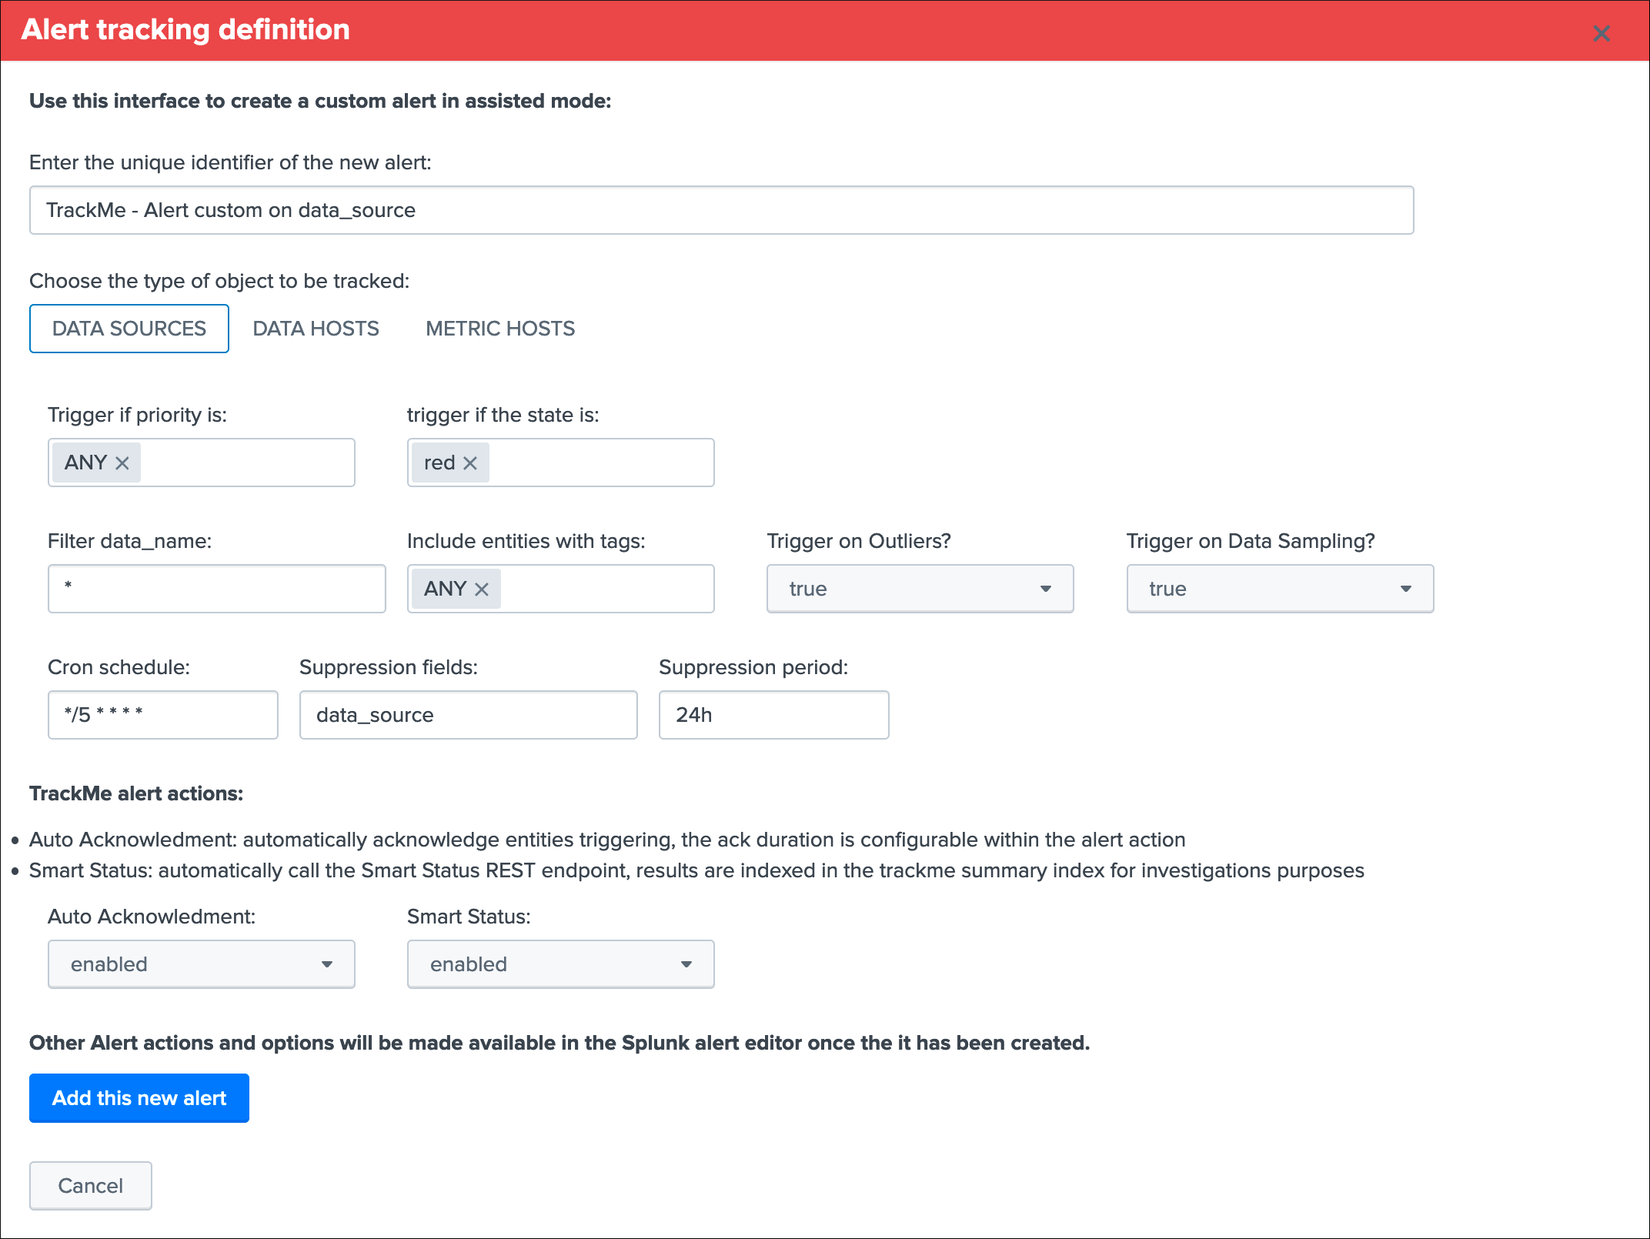
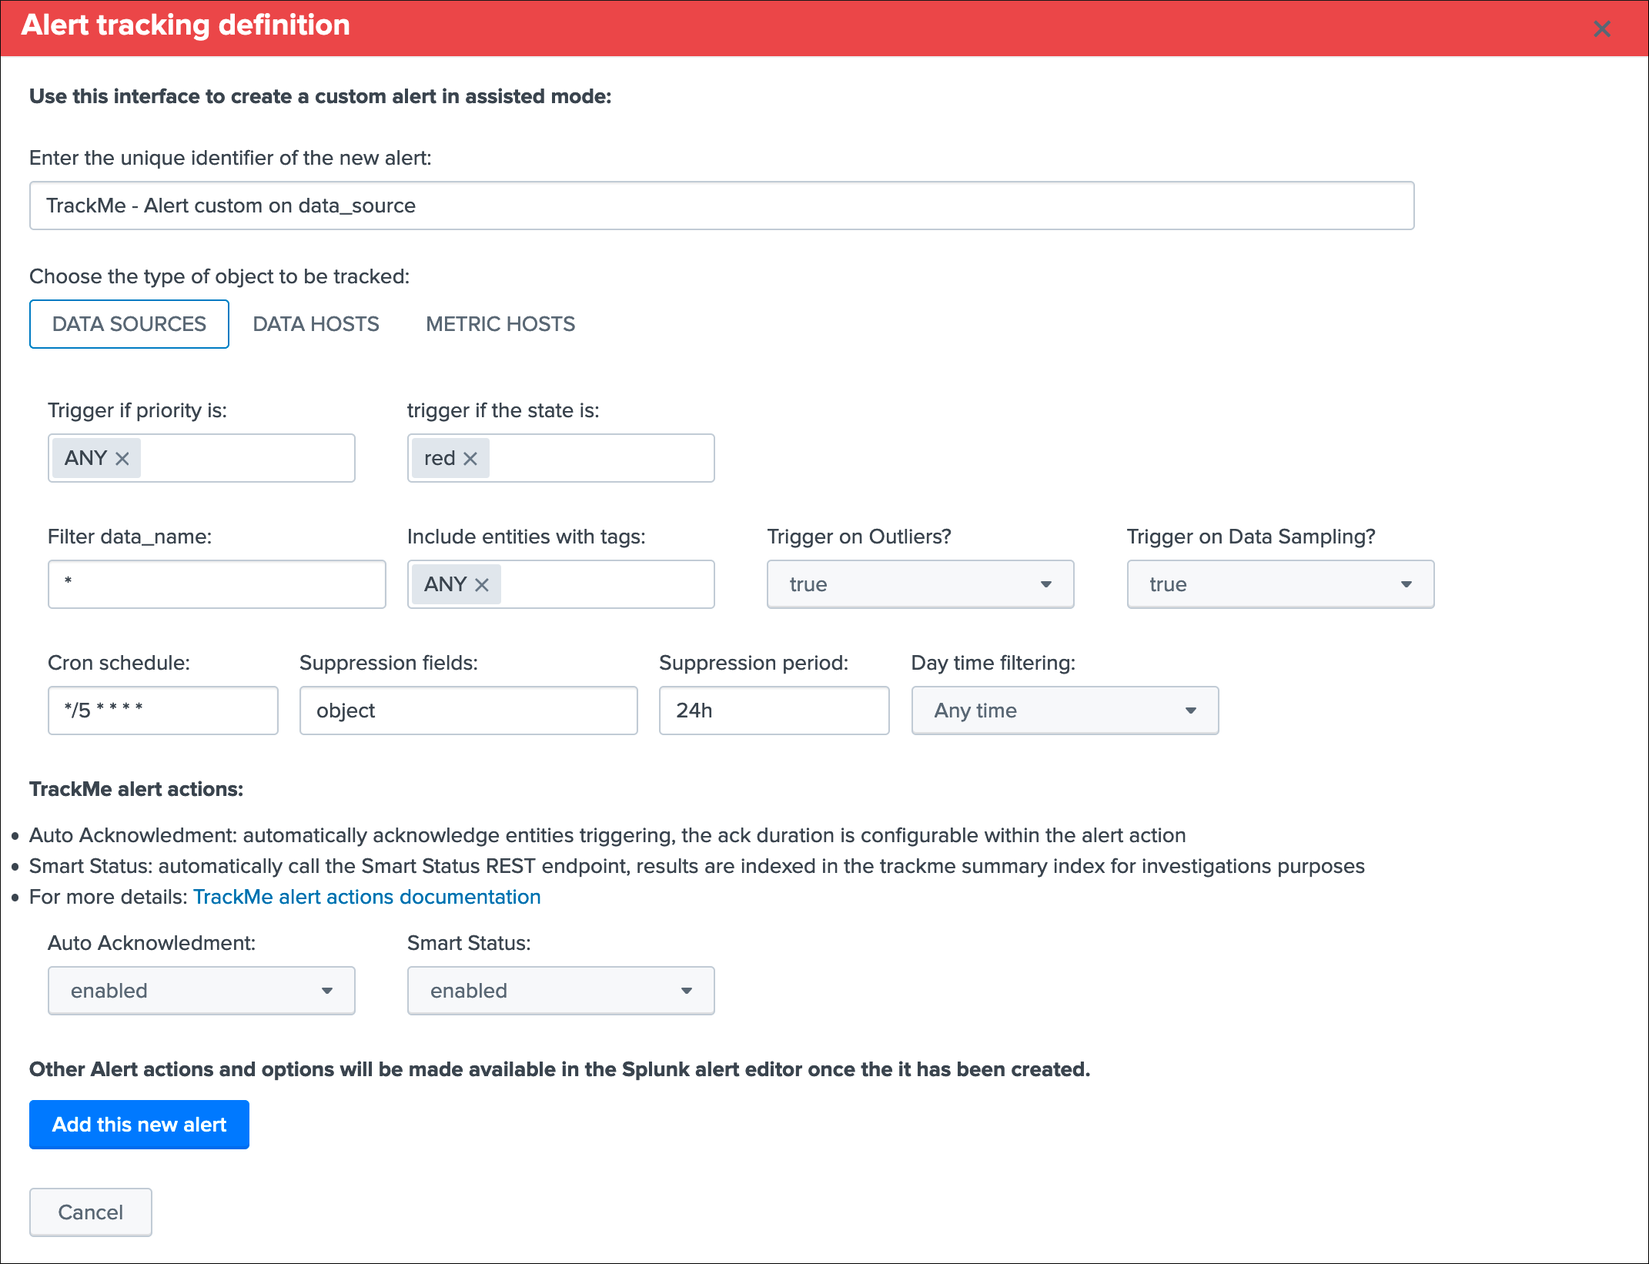
FIx Issue #316

diff --git a/trackme/default/data/ui/html/TrackMe.html b/trackme/default/data/ui/html/TrackMe.html
@@ -9068,7 +9068,10 @@ styles in <div> tags, similar to Bootstrap's grid system.
                                         </div>
                                         <div class="input input-text" id="modal_input_custom_alert_suppress_period" style="max-width: 150px;">
                                             <label>Suppression period:</label>
-                                        </div>                                        
+                                        </div>
+                                        <div class="input input-text" id="modal_input_custom_alert_time_filtering" style="max-width: 300px;">
+                                            <label>Day time filtering:</label>
+                                        </div>
                                     </div>
                                 </div>
                             </div>
@@ -16233,7 +16236,7 @@ require([
         var modal_input_custom_alert_name = new TextInput({
             "id": "modal_input_custom_alert_name",
             "searchWhenChanged": false,
-            "value": "$form.tk_custom_alert_name$",
+            "value": "$form.tk_input_custom_alert_name$",
             "default": "TrackMe - Alert custom on $create_alert_object_type$",
             "el": $('#modal_input_custom_alert_name')
         }, {
@@ -16278,19 +16281,19 @@ require([
             if (e.value === "data_source") {
                 EventHandler.setToken("create_alert_object_type", "data_source", {}, e.data);
                 EventHandler.setToken("create_alert_data_source", "true", {}, e.data);
-                EventHandler.setToken("form.tk_custom_alert_suppress_fields", "object", {}, e.data);
+                EventHandler.setToken("form.tk_input_custom_alert_suppress_fields", "object", {}, e.data);
                 EventHandler.unsetToken("create_alert_data_host");
                 EventHandler.unsetToken("create_alert_metric_host");
             } else if (e.value === "data_host") {
                 EventHandler.setToken("create_alert_object_type", "data_host", {}, e.data);
                 EventHandler.setToken("create_alert_data_host", "true", {}, e.data);
-                EventHandler.setToken("form.tk_custom_alert_suppress_fields", "object", {}, e.data);                
+                EventHandler.setToken("form.tk_input_custom_alert_suppress_fields", "object", {}, e.data);
                 EventHandler.unsetToken("create_alert_data_source");
                 EventHandler.unsetToken("create_alert_metric_host");
             } else if (e.value === "metric_host") {
                 EventHandler.setToken("create_alert_object_type", "metric_host", {}, e.data);
                 EventHandler.setToken("create_alert_metric_host", "true", {}, e.data);
-                EventHandler.setToken("form.tk_custom_alert_suppress_fields", "object", {}, e.data);                
+                EventHandler.setToken("form.tk_input_custom_alert_suppress_fields", "object", {}, e.data);
                 EventHandler.unsetToken("create_alert_data_host");
                 EventHandler.unsetToken("create_alert_data_source");
             }
@@ -16299,7 +16302,7 @@ require([
         var modal_input_custom_alert_data_source_filter = new TextInput({
             "id": "modal_input_custom_alert_data_source_filter",
             "searchWhenChanged": false,
-            "value": "$form.tk_custom_alert_data_source_filter$",
+            "value": "$form.tk_input_custom_alert_data_source_filter$",
             "default": "*",
             "el": $('#modal_input_custom_alert_data_source_filter')
         }, {
@@ -16313,7 +16316,7 @@ require([
         var modal_input_custom_alert_data_host_filter = new TextInput({
             "id": "modal_input_custom_alert_data_host_filter",
             "searchWhenChanged": false,
-            "value": "$form.tk_custom_alert_data_host_filter$",
+            "value": "$form.tk_input_custom_alert_data_host_filter$",
             "default": "*",
             "el": $('#modal_input_custom_alert_data_host_filter')
         }, {
@@ -16327,7 +16330,7 @@ require([
         var modal_input_custom_alert_metric_host_filter = new TextInput({
             "id": "modal_input_custom_alert_metric_host_filter",
             "searchWhenChanged": false,
-            "value": "$form.tk_custom_alert_metric_host_filter$",
+            "value": "$form.tk_input_custom_alert_metric_host_filter$",
             "default": "*",
             "el": $('#modal_input_custom_alert_metric_host_filter')
         }, {
@@ -16482,7 +16485,7 @@ require([
         var modal_input_custom_alert_cron = new TextInput({
             "id": "modal_input_custom_alert_cron",
             "searchWhenChanged": false,
-            "value": "$form.tk_custom_alert_cron$",
+            "value": "$form.tk_input_custom_alert_cron$",
             "default": "*/5 * * * *",
             "el": $('#modal_input_custom_alert_cron')
         }, {
@@ -16496,7 +16499,7 @@ require([
         var modal_input_custom_alert_suppress_fields = new TextInput({
             "id": "modal_input_custom_alert_suppress_fields",
             "searchWhenChanged": false,
-            "value": "$form.tk_custom_alert_suppress_fields$",
+            "value": "$form.tk_input_custom_alert_suppress_fields$",
             "el": $('#modal_input_custom_alert_suppress_fields')
         }, {
             tokens: true
@@ -16509,7 +16512,7 @@ require([
         var modal_input_custom_alert_suppress_period = new TextInput({
             "id": "modal_input_custom_alert_suppress_period",
             "searchWhenChanged": false,
-            "value": "$form.tk_custom_alert_suppress_period$",
+            "value": "$form.tk_input_custom_alert_suppress_period$",
             "default": "24h",
             "el": $('#modal_input_custom_alert_suppress_period')
         }, {
@@ -16518,6 +16521,52 @@ require([
 
         modal_input_custom_alert_suppress_period.on("change", function(newValue) {
             FormUtils.handleValueChange(modal_input_custom_alert_suppress_period);
+        });
+
+        var modal_input_custom_alert_time_filtering = new DropdownInput({
+            "id": "modal_input_custom_alert_time_filtering",
+            "choices": [{
+                    "label": "Any time",
+                    "value": "AnyTime"
+                },
+                {
+                    "label": "Days business (08h-20h)",
+                    "value": "Day_BusinessDays_8h-20h"
+                },
+                {
+                    "label": "Days WE only (08h-20h)",
+                    "value": "Day_WeekEnd_8h-20h"
+                },
+                {
+                    "label": "Days of the Week (08h-20h)",
+                    "value": "Day_AllDays_8h-20h"
+                },
+                {
+                    "label": "Night business (20h-08h)",
+                    "value": "Night_BusinessDays_20h-8h"
+                },
+                {
+                    "label": "Night WE only (20h-08h)",
+                    "value": "Night_WeekEnd_20h-8h"
+                },
+                {
+                    "label": "Night days of the week (20h-08h)",
+                    "value": "Night_AllDays_20h-8h"
+                },
+            ],
+            "searchWhenChanged": false,
+            "default": "AnyTime",
+            "showClearButton": true,
+            "initialValue": "AnyTime",
+            "selectFirstChoice": false,
+            "value": "$form.tk_input_custom_alert_time_filtering$",
+            "el": $('#modal_input_custom_alert_time_filtering')
+        }, {
+            tokens: true
+        }).render();
+
+        modal_input_custom_alert_time_filtering.on("change", function(newValue) {
+            FormUtils.handleValueChange(modal_input_custom_alert_time_filtering);
         });
 
         var modal_input_custom_alert_auto_ack = new DropdownInput({
@@ -25117,33 +25166,34 @@ require([
             var tokens = mvc.Components.get("default");
 
             // When the Submit button is clicked, get all the form fields by accessing token values
-            var tk_custom_alert_name = tokens.get("tk_custom_alert_name");
-            var tk_create_alert_data_source = tokens.get("create_alert_data_source");
-            var tk_create_alert_data_host = tokens.get("create_alert_data_host");
-            var tk_create_alert_metric_host = tokens.get("create_alert_metric_host");
+            var tk_input_custom_alert_name = tokens.get("tk_input_custom_alert_name");
+            var tk_input_create_alert_data_source = tokens.get("create_alert_data_source");
+            var tk_input_create_alert_data_host = tokens.get("create_alert_data_host");
+            var tk_input_create_alert_metric_host = tokens.get("create_alert_metric_host");
             var tk_input_custom_alert_priority = tokens.get("tk_input_custom_alert_priority");
             var tk_input_custom_alert_state = tokens.get("tk_input_custom_alert_state");
-            var tk_custom_alert_data_source_filter = tokens.get("tk_custom_alert_data_source_filter");
-            var tk_custom_alert_data_host_filter = tokens.get("tk_custom_alert_data_host_filter");
-            var tk_custom_alert_metric_host_filter = tokens.get("tk_custom_alert_metric_host_filter");            
+            var tk_input_custom_alert_data_source_filter = tokens.get("tk_input_custom_alert_data_source_filter");
+            var tk_input_custom_alert_data_host_filter = tokens.get("tk_input_custom_alert_data_host_filter");
+            var tk_input_custom_alert_metric_host_filter = tokens.get("tk_input_custom_alert_metric_host_filter");
             var tk_input_custom_tags = tokens.get("tk_input_custom_tags");
             var tk_input_custom_alert_trigger_on_outliers = tokens.get("tk_input_custom_alert_trigger_on_outliers");
             var tk_input_custom_alert_trigger_on_outliers_data_host = tokens.get("tk_input_custom_alert_trigger_on_outliers_data_host");
             var tk_input_custom_alert_trigger_on_data_sampling = tokens.get("tk_input_custom_alert_trigger_on_data_sampling");
-            var tk_custom_alert_cron = tokens.get("tk_custom_alert_cron");
-            var tk_custom_alert_suppress_fields = tokens.get("tk_custom_alert_suppress_fields");
-            var tk_custom_alert_suppress_period = tokens.get("tk_custom_alert_suppress_period");
+            var tk_input_custom_alert_cron = tokens.get("tk_input_custom_alert_cron");
+            var tk_input_custom_alert_suppress_fields = tokens.get("tk_input_custom_alert_suppress_fields");
+            var tk_input_custom_alert_suppress_period = tokens.get("tk_input_custom_alert_suppress_period");
+            var tk_input_custom_alert_time_filtering = tokens.get("tk_input_custom_alert_time_filtering");
             var tk_input_custom_alert_smart_status = tokens.get("tk_input_custom_alert_smart_status");
             var tk_input_custom_alert_auto_ack = tokens.get("tk_input_custom_alert_auto_ack");
 
             // Splunk limits report names to max 100 chars, and will refuse otherwise
-            var tk_tracker_name = tk_custom_alert_name.substring(0, 100);
+            var tk_tracker_name = tk_input_custom_alert_name.substring(0, 100);
 
             // define the alert search
             var tk_custom_alert;
             var tk_object_category;
 
-            if (tk_create_alert_data_source == "true") {
+            if (tk_input_create_alert_data_source == "true") {
 
                 tk_object_category = "data_source";
                 tk_custom_alert = "| inputlookup trackme_data_source_monitoring\n| appendcols [ | inputlookup trackme_maintenance_mode ] | filldown maintenance_mode | where NOT maintenance_mode=\"enabled\"";
@@ -25152,7 +25202,7 @@ require([
                 tk_custom_alert = tk_custom_alert + "\n| `trackme_eval_data_source_state`";
 
                 // add the data_name filter
-                tk_custom_alert = tk_custom_alert + "\n| search data_name=\"" +  tk_custom_alert_data_source_filter + "\"";
+                tk_custom_alert = tk_custom_alert + "\n| search data_name=\"" +  tk_input_custom_alert_data_source_filter + "\"";
 
                 // add the priority filter
                 tk_custom_alert = tk_custom_alert + "\n| search " +  tk_input_custom_alert_priority;
@@ -25179,6 +25229,10 @@ require([
                 tk_custom_alert = tk_custom_alert + "\n| search `trackme_get_idx_whitelist_searchtime(trackme_data_source_monitoring_whitelist_index, data_index)`";
                 tk_custom_alert = tk_custom_alert + "\n| `apply_data_source_blacklists`";
                 tk_custom_alert = tk_custom_alert + "\n| where data_monitored_state=\"enabled\"";
+
+                // handle time filtering
+                tk_custom_alert = tk_custom_alert + "\n| `" + tk_input_custom_alert_time_filtering + "`";
+
                 tk_custom_alert = tk_custom_alert + "\n| `trackme_date_format(data_last_ingest)`";
                 tk_custom_alert = tk_custom_alert + "\n| `trackme_date_format(data_last_time_seen)`";
                 tk_custom_alert = tk_custom_alert + "\n| `trackme_date_format(data_tracker_runtime)`";
@@ -25191,7 +25245,7 @@ require([
                 tk_custom_alert = tk_custom_alert + "\n| `trackme_alerts_order_data_source`";
 
             }
-            else if (tk_create_alert_data_host == "true") {
+            else if (tk_input_create_alert_data_host == "true") {
 
                 tk_object_category = "data_host";
                 tk_custom_alert = "| inputlookup trackme_host_monitoring\n| appendcols [ | inputlookup trackme_maintenance_mode ] | filldown maintenance_mode | where NOT maintenance_mode=\"enabled\"";
@@ -25200,7 +25254,7 @@ require([
                 tk_custom_alert = tk_custom_alert + "\n| `trackme_eval_data_host_state`";
 
                 // add the data_host filter
-                tk_custom_alert = tk_custom_alert + "\n| search data_host=\"" +  tk_custom_alert_data_host_filter + "\"";
+                tk_custom_alert = tk_custom_alert + "\n| search data_host=\"" +  tk_input_custom_alert_data_host_filter + "\"";
 
                 // add the priority filter
                 tk_custom_alert = tk_custom_alert + "\n| search " +  tk_input_custom_alert_priority;
@@ -25220,7 +25274,11 @@ require([
                 tk_custom_alert = tk_custom_alert + "\n| `trackme_data_host_extract_mvstsummary` | fields - summary_first_time	summary_idx	summary_last_ingest	time, data_host_st_summary";
                 tk_custom_alert = tk_custom_alert + "\n| search `trackme_get_idx_whitelist_searchtime(trackme_data_host_monitoring_whitelist_index, data_index)`";
                 tk_custom_alert = tk_custom_alert + "\n| `apply_data_host_blacklists`";
-                tk_custom_alert = tk_custom_alert + "\n| where data_monitored_state=\"enabled\"";                
+                tk_custom_alert = tk_custom_alert + "\n| where data_monitored_state=\"enabled\"";
+
+                // handle time filtering
+                tk_custom_alert = tk_custom_alert + "\n| `" + tk_input_custom_alert_time_filtering + "`";
+
                 tk_custom_alert = tk_custom_alert + "\n| `trackme_data_host_group_lookup`";
                 tk_custom_alert = tk_custom_alert + "\n| `trackme_date_format(data_last_ingest)`";
                 tk_custom_alert = tk_custom_alert + "\n| `trackme_date_format(data_last_time_seen)`";
@@ -25233,13 +25291,13 @@ require([
                 tk_custom_alert = tk_custom_alert + "\n| `trackme_alerts_order_data_host`";
 
             }
-            else if (tk_create_alert_metric_host == "true") {
+            else if (tk_input_create_alert_metric_host == "true") {
 
                 tk_object_category = "metric_host";
                 tk_custom_alert = "| inputlookup trackme_metric_host_monitoring\n| appendcols [ | inputlookup trackme_maintenance_mode ] | filldown maintenance_mode | where NOT maintenance_mode=\"enabled\"";
 
                 // add the metric_host filter
-                tk_custom_alert = tk_custom_alert + "\n| search metric_host=\"" +  tk_custom_alert_metric_host_filter + "\"";
+                tk_custom_alert = tk_custom_alert + "\n| search metric_host=\"" +  tk_input_custom_alert_metric_host_filter + "\"";
 
                 // add the priority filter
                 tk_custom_alert = tk_custom_alert + "\n| search " +  tk_input_custom_alert_priority;
@@ -25252,6 +25310,10 @@ require([
                 tk_custom_alert = tk_custom_alert + "\n| search `trackme_get_idx_whitelist_searchtime(trackme_metric_host_monitoring_whitelist_index, metric_index)`";
                 tk_custom_alert = tk_custom_alert + "\n| `apply_metric_host_blacklists`";
                 tk_custom_alert = tk_custom_alert + "\n| where metric_monitored_state=\"enabled\"";
+
+                // handle time filtering
+                tk_custom_alert = tk_custom_alert + "\n| `" + tk_input_custom_alert_time_filtering + "`";
+
                 tk_custom_alert = tk_custom_alert + "\n| `trackme_date_format(metric_last_time_seen)`";
                 tk_custom_alert = tk_custom_alert + "\n| eval \"last time\"='metric_last_time_seen (translated)'";
                 tk_custom_alert = tk_custom_alert + "\n| `trackme_date_format(metric_tracker_runtime)`";
@@ -25280,8 +25342,8 @@ require([
                     "alert_type": "always",
                     "alert.severity": "5",
                     "alert.suppress": "1",
-                    "alert.suppress.fields": tk_custom_alert_suppress_fields,
-                    "alert.suppress.period": tk_custom_alert_suppress_period,
+                    "alert.suppress.fields": tk_input_custom_alert_suppress_fields,
+                    "alert.suppress.period": tk_input_custom_alert_suppress_period,
                     "alert.track": "1",
                     "dispatch.earliest_time": "-5m",
                     "dispatch.latest_time": "now",
@@ -25290,7 +25352,7 @@ require([
                     "alert_type": "number of events",
                     "alert_threshold": "0",
                     "alert.digest_mode": "0",
-                    "cron_schedule": tk_custom_alert_cron,
+                    "cron_schedule": tk_input_custom_alert_cron,
                     "actions": "trackme_auto_ack,trackme_smart_status",
                     "action.trackme_auto_ack.param.object_category": "$result.object_category$",
                     "action.trackme_auto_ack.param.object_name": "$result.object$",
@@ -25306,13 +25368,13 @@ require([
                     "alert_type": "always",
                     "alert.severity": "1",
                     "alert.suppress": "1",
-                    "alert.suppress.fields": tk_custom_alert_suppress_fields,
-                    "alert.suppress.period": tk_custom_alert_suppress_period,
+                    "alert.suppress.fields": tk_input_custom_alert_suppress_fields,
+                    "alert.suppress.period": tk_input_custom_alert_suppress_period,
                     "alert.track": "1",
                     "dispatch.earliest_time": "-5m",
                     "dispatch.latest_time": "now",
                     "is_scheduled": "1",
-                    "cron_schedule": tk_custom_alert_cron,
+                    "cron_schedule": tk_input_custom_alert_cron,
                     "actions": "trackme_auto_ack",                    
                     "action.trackme_auto_ack.param.object_category": "$result.object_category$",
                     "action.trackme_auto_ack.param.object_name": "$result.object$"
@@ -25326,13 +25388,13 @@ require([
                     "alert_type": "always",
                     "alert.severity": "1",
                     "alert.suppress": "1",
-                    "alert.suppress.fields": tk_custom_alert_suppress_fields,
-                    "alert.suppress.period": tk_custom_alert_suppress_period,
+                    "alert.suppress.fields": tk_input_custom_alert_suppress_fields,
+                    "alert.suppress.period": tk_input_custom_alert_suppress_period,
                     "alert.track": "1",
                     "dispatch.earliest_time": "-5m",
                     "dispatch.latest_time": "now",
                     "is_scheduled": "1",
-                    "cron_schedule": tk_custom_alert_cron,
+                    "cron_schedule": tk_input_custom_alert_cron,
                     "actions": "trackme_smart_status",
                     "action.trackme_smart_status.param.object_category": "$result.object_category$",
                     "action.trackme_smart_status.param.object_name": "$result.object$"                   
@@ -25346,13 +25408,13 @@ require([
                     "alert_type": "always",
                     "alert.severity": "1",
                     "alert.suppress": "1",
-                    "alert.suppress.fields": tk_custom_alert_suppress_fields,
-                    "alert.suppress.period": tk_custom_alert_suppress_period,
+                    "alert.suppress.fields": tk_input_custom_alert_suppress_fields,
+                    "alert.suppress.period": tk_input_custom_alert_suppress_period,
                     "alert.track": "1",
                     "dispatch.earliest_time": "-5m",
                     "dispatch.latest_time": "now",
                     "is_scheduled": "1",
-                    "cron_schedule": tk_custom_alert_cron
+                    "cron_schedule": tk_input_custom_alert_cron
                 };
             }
 

diff --git a/docs/releasenotes.rst b/docs/releasenotes.rst
@@ -17,6 +17,7 @@ TrackMe requires a summary index (defaults to trackme_summary) and a metric inde
 https://trackme.readthedocs.io/en/latest/configuration.html
 
 - Feature - Issue #312 - Migration from Addon Builder based libs to Splunk Addon factory UCC based libs
+- Feature - Issue #316 - Provides day time filtering options when creating custom alerts
 
 Version 1.2.44
 ==============
